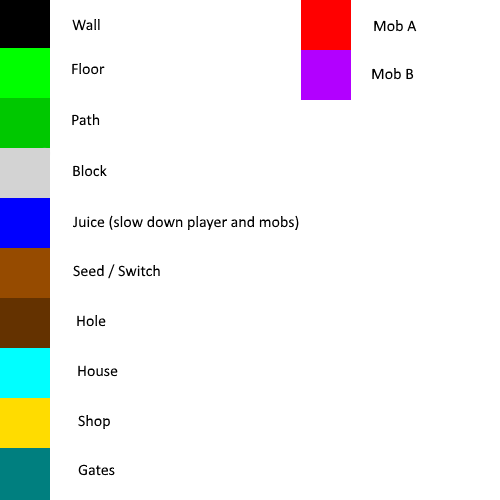
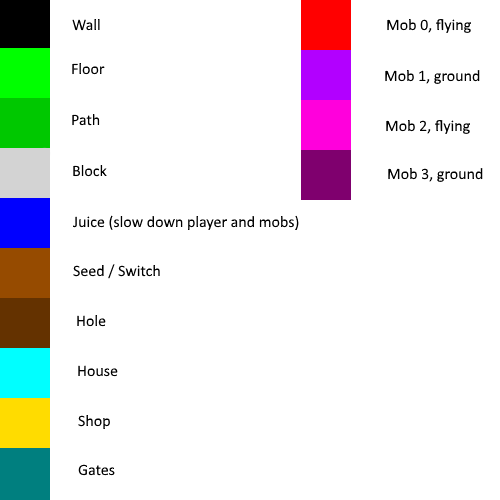
Modification of the map convertor (addition of mobs)

diff --git a/environment_convertor/map_creator.py b/environment_convertor/map_creator.py
@@ -6,64 +6,73 @@ from PIL import Image
 #PNG have to be located in the folder 'rooms'
 for filename in enumerate(os.listdir("rooms_png")):
     name, ext = os.path.splitext(filename[1])
-    room_png = Image.open("rooms_png/"+name+ext,"r")
-    pix = room_png.load()
-    column, line = room_png.size
-    mobs = ""
-    spawn_coord = []
-    correspondance_array = [[] for b in range(line)]
+    if ext.lower() == ".png":
+        room_png = Image.open("rooms_png/"+name+ext,"r")
+        pix = room_png.load()
+        column, line = room_png.size
+        mobs = ""
+        spawn_coord = []
+        correspondance_array = [[] for b in range(line)]
 
-    for i in range(line):
-        for j in range(column):
-            color = pix[j,i]
-            if color[:3] == (0,255,0): #Green stands for the floor
-                correspondance_array[i].append('F')
-            elif color[:3] == (0,200,0): #Darkest green stands for plantation
-                correspondance_array[i].append('P')
-            elif color[:3] == (255,220,0): #Yellow stands for shop
-                correspondance_array[i].append('S')
-            elif color[:3] == (0,255,255): #Cyan stands for house
-                correspondance_array[i].append('M')
-            elif color[:3] == (0,127,127): #Dark Cyan stands for gates
-                correspondance_array[i].append('G')
-            elif color[:3] == (0,0,0): #Black stands for the wall
-                correspondance_array[i].append('W')
-            elif color[:3] == (211,211,211): #Gray stands for block
-                correspondance_array[i].append('B')
-            elif color[:3] == (0,0,255): #Blue stands for the juice
-                correspondance_array[i].append('J')
-            elif color[:3] == (150,75,0): #Brown stands for the seed (switch)
-                correspondance_array[i].append('W')
-            elif color[:3] == (100,50,0): #Darkest brown stands for hole
-                correspondance_array[i].append('H')
-            elif color[:3] == (255,0,0): #Red stands for monster A
-                correspondance_array[i].append('H')
-                spawn_coord.append(("flying",i,j))
-                mobs+='A'
-            elif color[:3] == (180,0,255): #Red stands for monster B
-                correspondance_array[i].append('F')
-                spawn_coord.append(("terrain",i,j))
-                mobs+='B'
-            else:
-                print("Error at "+str(i)+" "+str(j))
-    
-    room_png.close()
+        for i in range(line):
+            for j in range(column):
+                color = pix[j,i]
+                if color[:3] == (0,255,0): # Green stands for the floor
+                    correspondance_array[i].append('F')
+                elif color[:3] == (0,200,0): # Darkest green stands for plantation
+                    correspondance_array[i].append('P')
+                elif color[:3] == (255,220,0): # Yellow stands for shop
+                    correspondance_array[i].append('S')
+                elif color[:3] == (0,255,255): # Cyan stands for house
+                    correspondance_array[i].append('M')
+                elif color[:3] == (0,127,127): # Dark Cyan stands for gates
+                    correspondance_array[i].append('G')
+                elif color[:3] == (0,0,0): # Black stands for the wall
+                    correspondance_array[i].append('W')
+                elif color[:3] == (211,211,211): # Gray stands for block
+                    correspondance_array[i].append('B')
+                elif color[:3] == (0,0,255): # Blue stands for the juice
+                    correspondance_array[i].append('J')
+                elif color[:3] == (150,75,0): # Brown stands for the seed (switch)
+                    correspondance_array[i].append('W')
+                elif color[:3] == (100,50,0): # Darkest brown stands for hole
+                    correspondance_array[i].append('H')
+                elif color[:3] == (255,0,0): # Red stands for monster 0
+                    correspondance_array[i].append('0')
+                    spawn_coord.append(("flying",i,j))
+                    mobs+='0'
+                elif color[:3] == (180,0,255): # Mauve stands for monster 1
+                    correspondance_array[i].append('1')
+                    spawn_coord.append(("ground",i,j))
+                    mobs+='1'
+                elif color[:3] == (255, 0, 220):  # Pink stands for monster 2
+                    correspondance_array[i].append('2')
+                    spawn_coord.append(("flying", i, j))
+                    mobs += '2'
+                elif color[:3] == (127, 0, 110):  # Purple stands for monster 3
+                    correspondance_array[i].append('3')
+                    spawn_coord.append(("ground", i, j))
+                    mobs += '3'
+                else:
+                    print("Error at "+str(i)+" "+str(j))
 
-    #Name, size, kind of mobs allowed to spawn
-    map_file = open("rooms_out/"+name+".map","w")
-    map_file.write(name+",\n")
-    map_file.write("COLUMNS="+str(column)+",LINES="+str(line)+",\n")
-    map_file.write("SET_MOB="+mobs+" ,\n")
+        room_png.close()
 
-    #Position allowed for mobs to spawn
-    for coord in spawn_coord:
-        map_file.write("SPAWN "+str(coord[0])+": "+str(coord[1])+"-"+str(coord[2])+"\n")
+        #Name, size, kind of mobs allowed to spawn
+        map_file = open("rooms_out/"+name+".map","w")
+        map_file.write(name+",\n")
+        map_file.write("COLUMNS="+str(column)+",LINES="+str(line)+",\n")
+        map_file.write("SET_MOB="+mobs+" ,\n")
 
-    #Tile map
-    for i in range(line):
-        for j in range(column):
-            map_file.write(correspondance_array[i][j])
-        map_file.write("\n")
-    print(name+": done.\n")
-    map_file.close()
+        #Position allowed for mobs to spawn
+        for coord in spawn_coord:
+            map_file.write("SPAWN "+str(coord[0])+": "+str(coord[1])+"-"+str(coord[2])+"\n")
+
+        #Tile map
+        for i in range(line):
+            for j in range(column):
+                map_file.write(correspondance_array[i][j])
+            map_file.write("\n")
+        print(name+": done.\n")
+        map_file.close()
 print("Done.")
